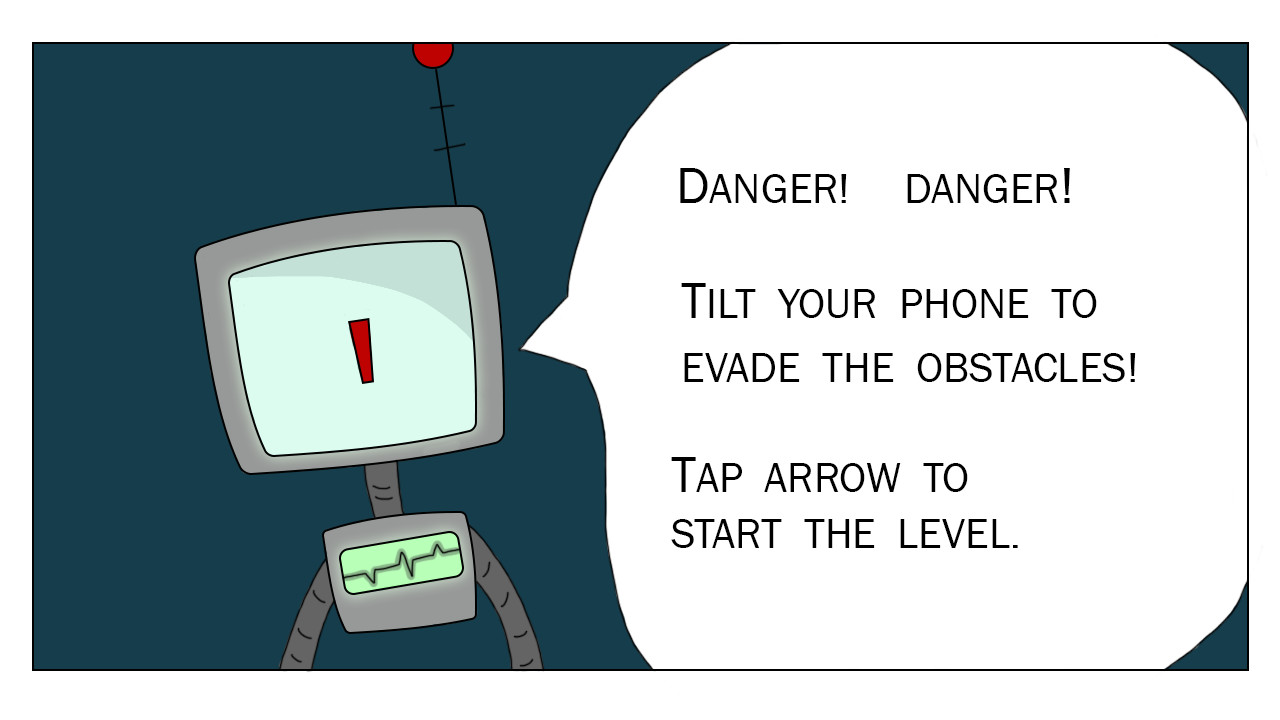
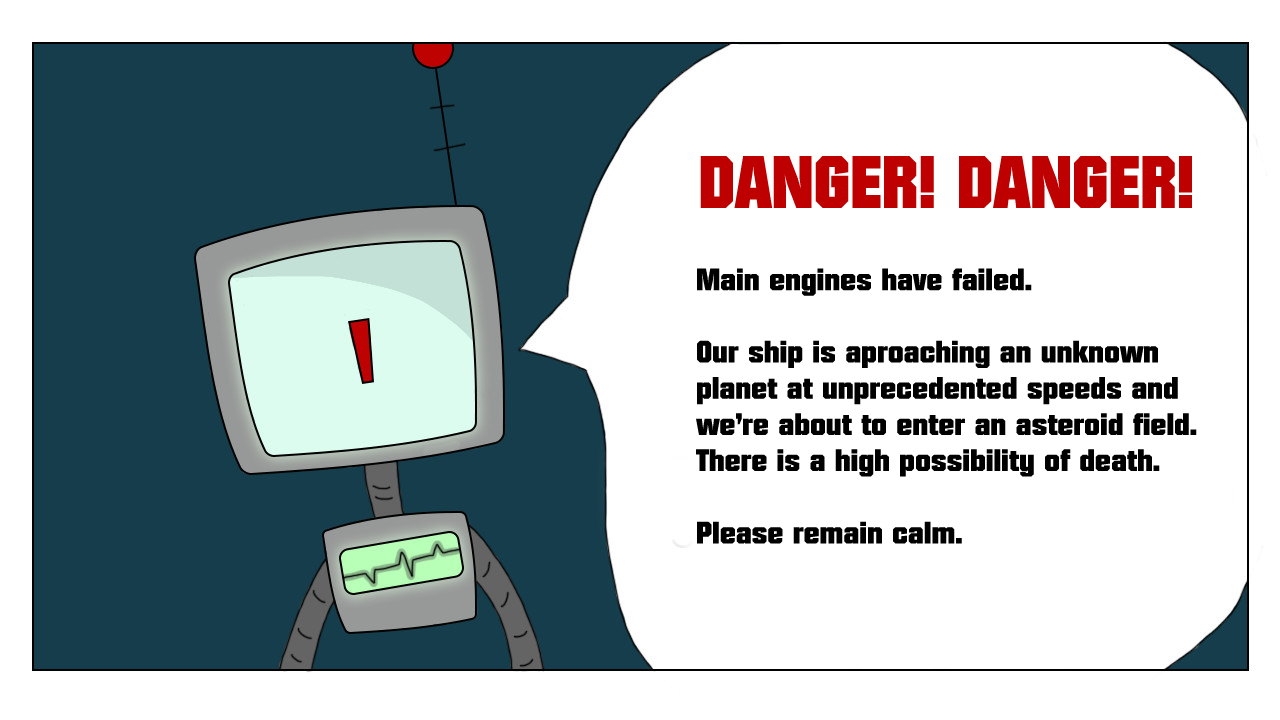
Terminé la migración hacia Graphics

Changed region(s): [[0.5312, 0.3667, 0.9375, 0.7639], [0.5312, 0.2139, 0.9375, 0.3056]]

diff --git a/app/src/main/java/mx/itesm/planetz/StoryScene.java b/app/src/main/java/mx/itesm/planetz/StoryScene.java
@@ -86,7 +86,7 @@ public class StoryScene extends BaseScene {
         // los slides y el número de slides que habrá ========
         switch (currentLevel) {
             case 1:
-                maxIndex = 6;
+                maxIndex = 7;
                 pathName = "Graphics/Story/CrashCourseIntoOblivion/";
                 break;
             case 2:
@@ -202,7 +202,7 @@ public class StoryScene extends BaseScene {
                         break;
                     case NEXT_SLIDE:
                         // -- Si todavía hay un slide adelante --
-                        if(currentIndex < maxIndex - 1){
+                        if(currentIndex < maxIndex){
                             // -- Quitamos la visibilidad del slide actual --
                             storySlidesSpriteContainer.get(currentIndex++).setVisible(false);
                             // -- Ponemos la visibilidad del slide siguiente --
